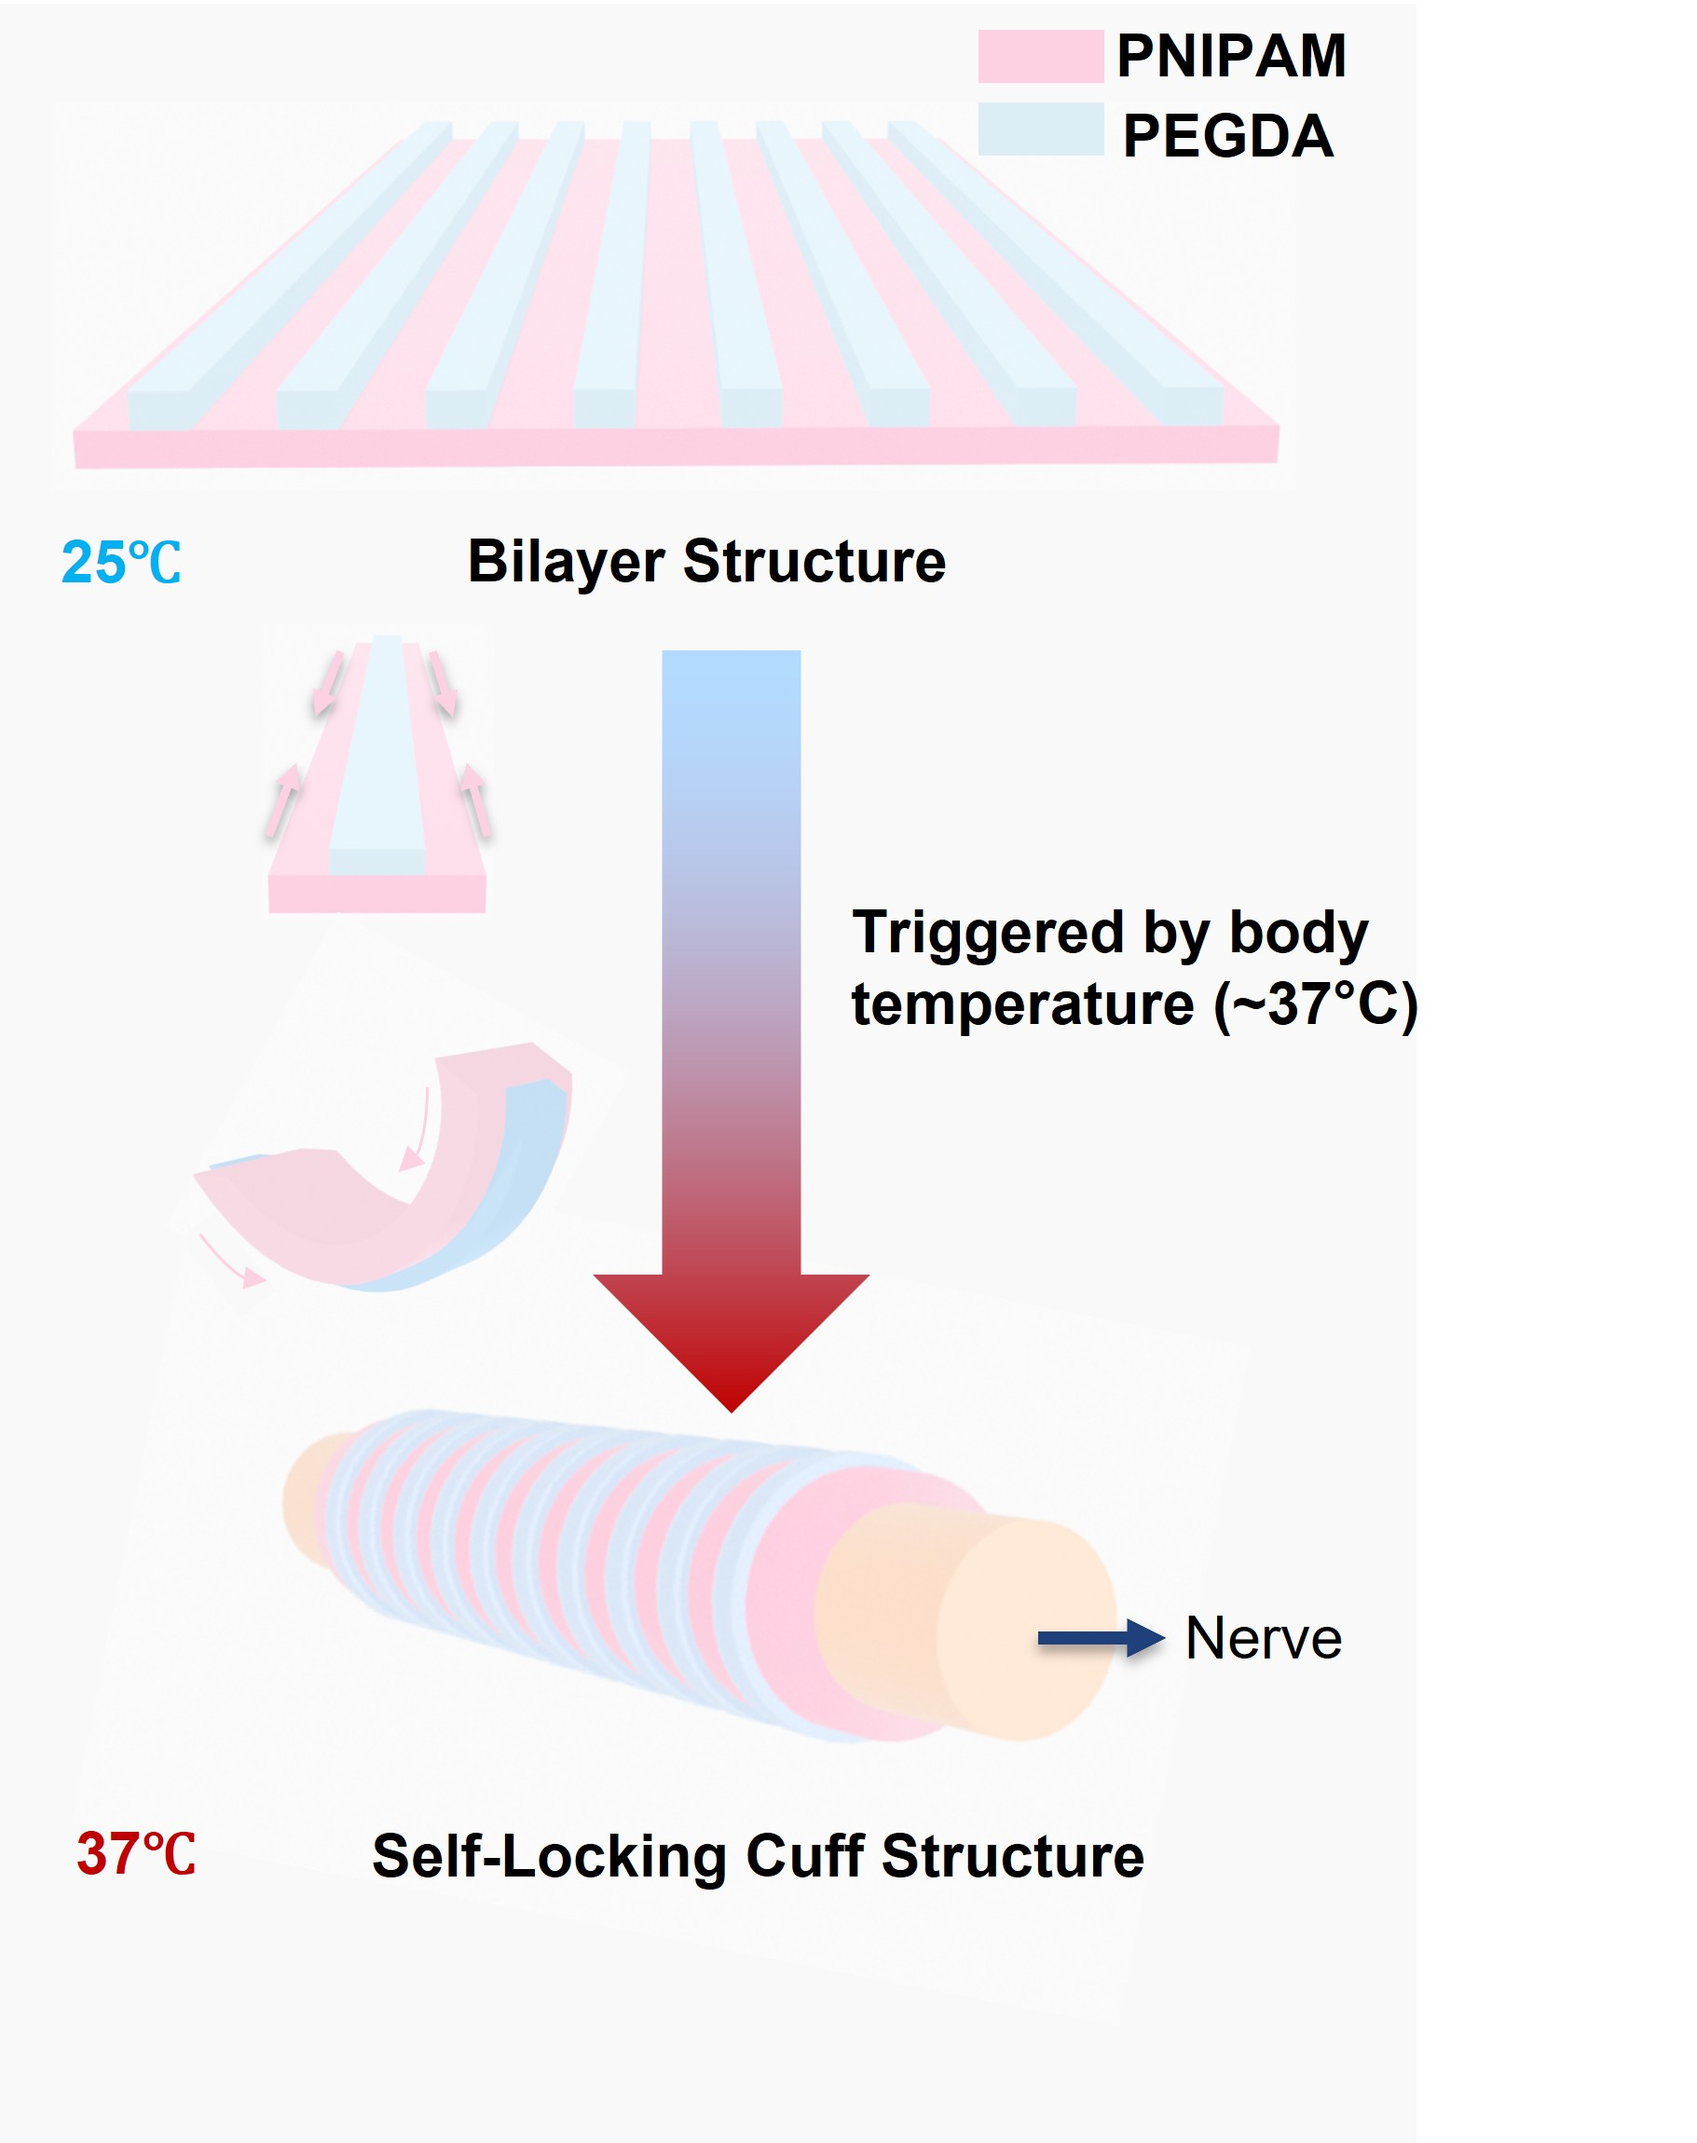
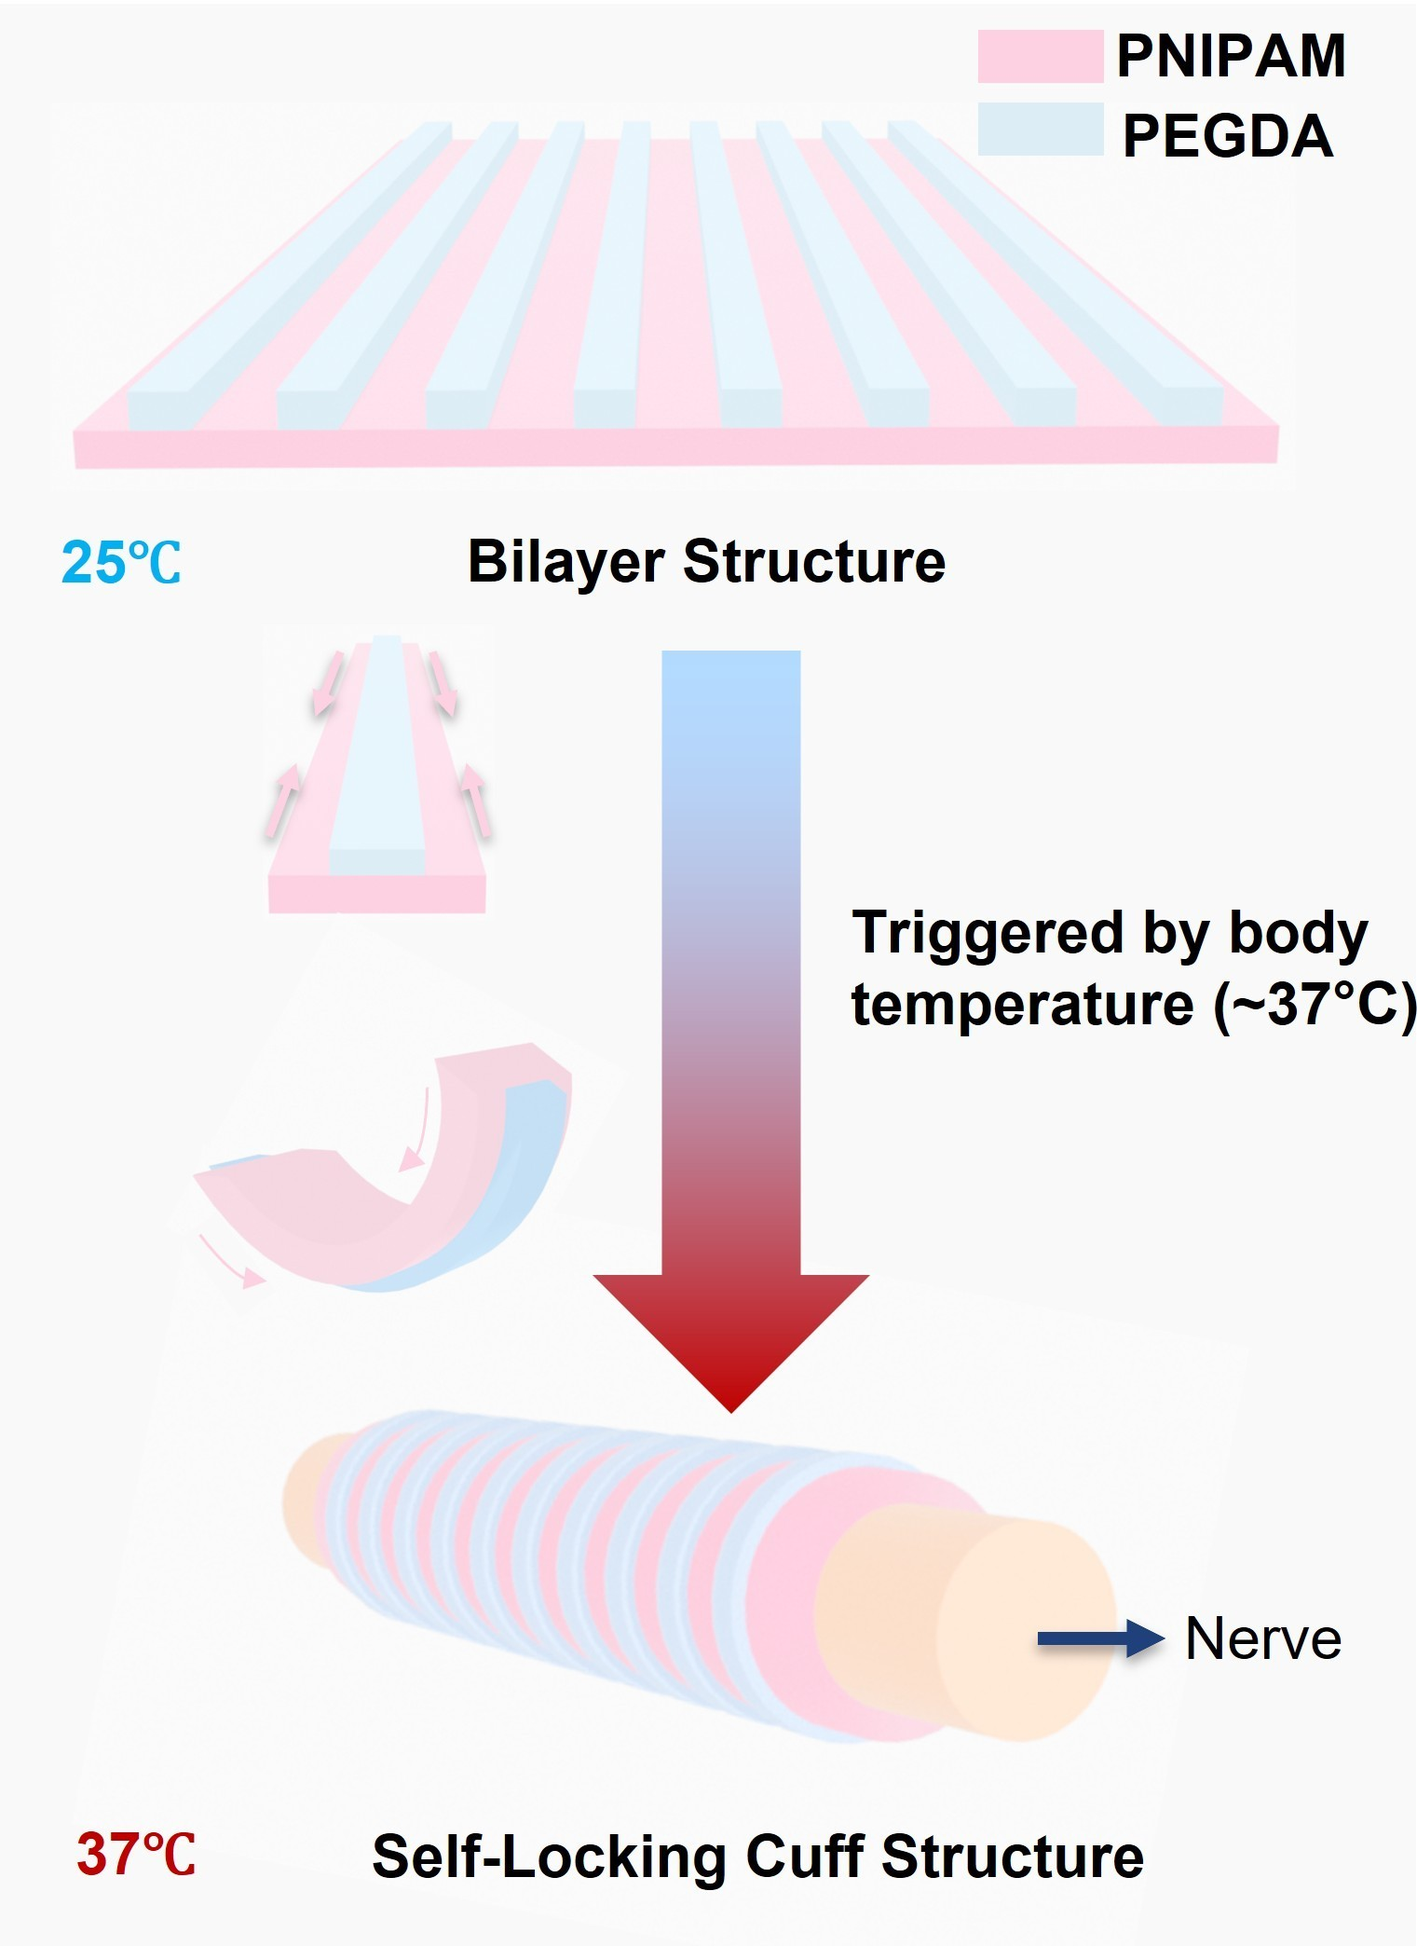
blender cetoni

diff --git a/projects.html b/projects.html
@@ -125,6 +125,8 @@
             <img src="images/cuff_electrode_patch.png" alt="Cuff Electrode with Patches"    onclick="openModal(this)">
             <img src="images/micro_CT.jpg" alt="Cuff Eletrode under MicroCT"    onclick="openModal(this)">
             <img src="images/cuff_electrode_test_setup.jpg" alt="Test Setup"    onclick="openModal(this)">
+            <img   src="images/Self_Locking_Illustration.jpg" alt="Thermally triggered self-locking mechanism of a bilayer hydrogel cuff (modeled in Blender)"    onclick="openModal(this)">
+            <img src="images/Flow Control.png" alt="Cetoni Flow Control"    onclick="openModal(this)">         
           </div>
 
  
